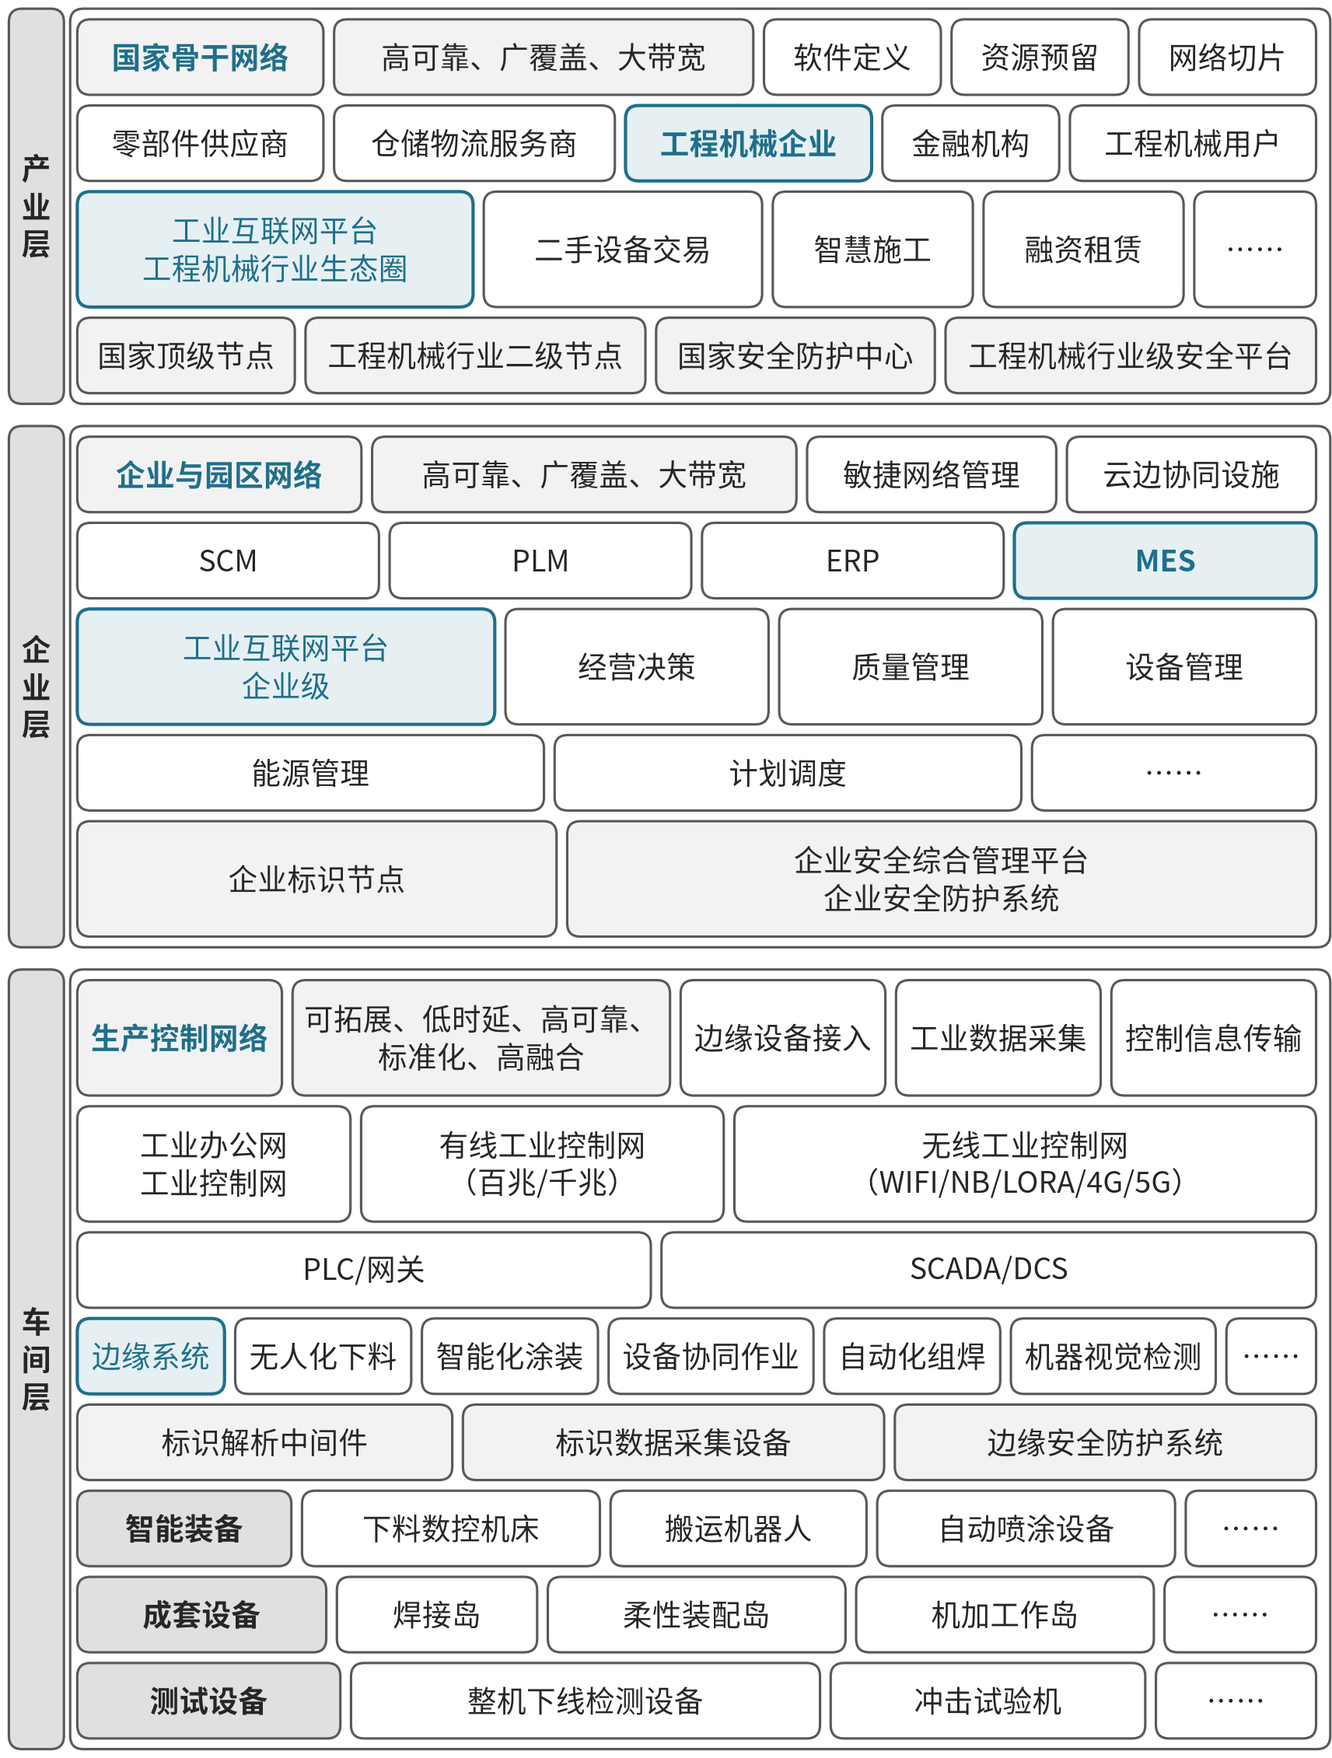
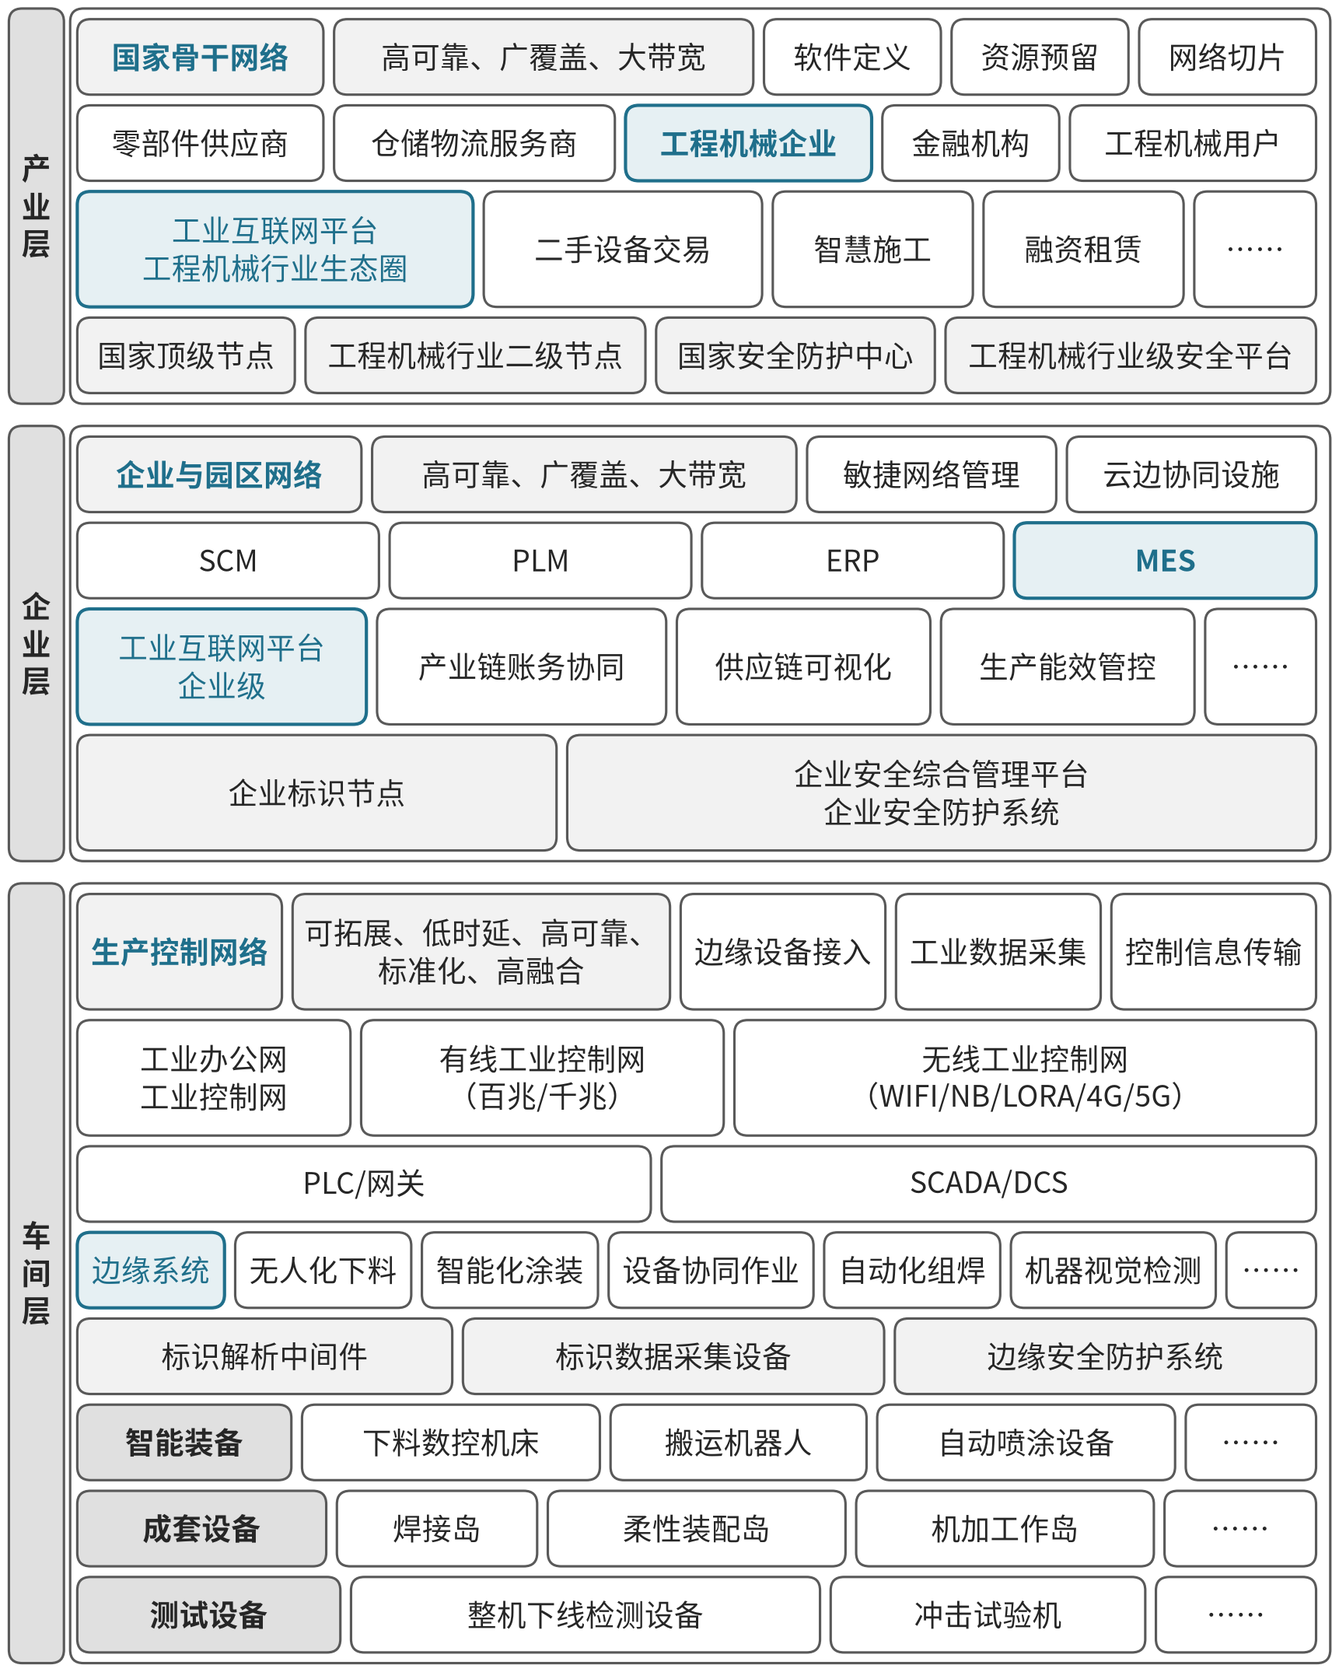
fig(miit9-pr1): 三层条目全部按图参数化，修正图12-1企业层；联盟出处补（2019年）；刷新校验和与对比图

Changed region(s): [[0.0, 0.0, 1.0, 0.9972]]

diff --git a/scripts/figures/specs.py b/scripts/figures/specs.py
@@ -279,54 +279,93 @@ def _():
 
 # ---------------- C01/C04/C05 工信部指南“融合创新实施架构”重绘（同一模板 net3，逐字转录，版式本书重排） ----------------
 MIIT = '资料来源：本书绘制，据工业和信息化部《{doc}》图{no}（PDF第{page}页）整理{alliance}。'
-ALLIANCE = '；原图引自工业互联网产业联盟《工业互联网体系架构（版本2.0）》'
+ALLIANCE = '；原图引自工业互联网产业联盟《工业互联网体系架构（版本2.0）》（2019年）'
 
-def miit_arch(ind, ent, key, plat1, eco, edge, dev):
-    """三层（产业层/企业层/车间层）融合创新实施架构；术语照原图逐字转录，设备图标改为文字框。"""
+def miit_arch(p):
+    """三层（产业层/企业层/车间层）融合创新实施架构。模板只管版式，不含任何图内文字：
+    每张图的全部文字都在各自的参数字典里，照该图原页逐字转录；设备图标改为文字框。"""
     w = 'white'; g = 'grey'
+    def items(xs): return [(x, w) for x in xs]
+    def net(n): return [(n['name'], 'net'), (n['feats'], g)] + items(n['caps'])
+    I, E, S = p['产业层'], p['企业层'], p['车间层']
+    k = len(E['apps']) if len(E['apps']) <= 4 else 3   # 企业级平台应用：至多 4 项排一行，否则 3 项一行
     return net3([
-        ('产业层', [[('国家骨干网络', 'net'), ('高可靠、广覆盖、大带宽', g), ('软件定义', w), ('资源预留', w), ('网络切片', w)],
-                   [(e, 'key' if e == key else w) for e in ent],
-                   [('工业互联网平台\n' + eco, 'plat')] + [(a, w) for a in plat1],
-                   [('国家顶级节点', g), (ind + '行业二级节点', g), ('国家安全防护中心', g), (ind + '行业级安全平台', g)]]),
-        ('企业层', [[('企业与园区网络', 'net'), ('高可靠、广覆盖、大带宽', g), ('敏捷网络管理', w), ('云边协同设施', w)],
-                   [('SCM', w), ('PLM', w), ('ERP', w), ('MES', 'key')],
-                   [('工业互联网平台\n企业级', 'plat'), ('经营决策', w), ('质量管理', w), ('设备管理', w)],
-                   [('能源管理', w), ('计划调度', w), ('……', w)],
-                   [('企业标识节点', g), ('企业安全综合管理平台\n企业安全防护系统', g)]]),
-        ('车间层', [[('生产控制网络', 'net'), ('可拓展、低时延、高可靠、\n标准化、高融合', g), ('边缘设备接入', w), ('工业数据采集', w), ('控制信息传输', w)],
-                   [('工业办公网\n工业控制网', w), ('有线工业控制网\n（百兆/千兆）', w), ('无线工业控制网\n（WIFI/NB/LORA/4G/5G）', w)],
-                   [('PLC/网关', w), ('SCADA/DCS', w)],
-                   [('边缘系统', 'plat')] + [(a, w) for a in edge],
-                   [('标识解析中间件', g), ('标识数据采集设备', g), ('边缘安全防护系统', g)]]
-                  + [[(t, 'head')] + [(i, w) for i in items + ['……']] for t, items in dev])])
-
-STEEL_EDGE = ['智能过程控制', '工业机器人辅助生产', '工况智能识别诊断', '……']
+        ('产业层', [net(I['net']),
+                   [(e, 'key' if e == I['key'] else w) for e in I['entities']],
+                   [(I['plat'], 'plat')] + items(I['apps']),
+                   [(x, g) for x in I['ident'] + I['sec']]]),
+        ('企业层', [net(E['net']),
+                   [(x, 'key' if x == E['key'] else w) for x in E['systems']],
+                   [(E['plat'], 'plat')] + items(E['apps'][:k])]
+                  + ([items(E['apps'][k:])] if E['apps'][k:] else [])
+                  + [[(x, g) for x in E['ident'] + E['sec']]]),
+        ('车间层', [net(S['net']), items(S['nets']), items(S['ctrl']),
+                   [(S['plat'], 'plat')] + items(S['apps']),
+                   [(x, g) for x in S['ident'] + S['sec']]]
+                  + [[(t, 'head')] + items(xs) for t, xs in S['devices']])])
 
 @fig('T-C01-1', MID, 'C01-工程机械.md', None, '工程机械行业工业互联网融合创新实施架构', 'C01-1-工程机械融合创新实施架构',
      MIIT.format(doc='工业互联网与工程机械行业融合应用参考指南（2023年）', no='3-2', page=57, alliance=ALLIANCE))
-def _():
-    return miit_arch('工程机械', ['零部件供应商', '仓储物流服务商', '工程机械企业', '金融机构', '工程机械用户'], '工程机械企业',
-                     ['二手设备交易', '智慧施工', '融资租赁', '……'], '工程机械行业生态圈',
-                     ['无人化下料', '智能化涂装', '设备协同作业', '自动化组焊', '机器视觉检测', '……'],
-                     [('智能装备', ['下料数控机床', '搬运机器人', '自动喷涂设备']), ('成套设备', ['焊接岛', '柔性装配岛', '机加工作岛']),
-                      ('测试设备', ['整机下线检测设备', '冲击试验机'])])
+def _():  # 逐字转录自 B02 PDF第57页图3-2
+    return miit_arch({
+        '产业层': dict(net=dict(name='国家骨干网络', feats='高可靠、广覆盖、大带宽', caps=['软件定义', '资源预留', '网络切片']),
+                    entities=['零部件供应商', '仓储物流服务商', '工程机械企业', '金融机构', '工程机械用户'], key='工程机械企业',
+                    plat='工业互联网平台\n工程机械行业生态圈', apps=['二手设备交易', '智慧施工', '融资租赁', '……'],
+                    ident=['国家顶级节点', '工程机械行业二级节点'], sec=['国家安全防护中心', '工程机械行业级安全平台']),
+        '企业层': dict(net=dict(name='企业与园区网络', feats='高可靠、广覆盖、大带宽', caps=['敏捷网络管理', '云边协同设施']),
+                    systems=['SCM', 'PLM', 'ERP', 'MES'], key='MES',
+                    plat='工业互联网平台\n企业级', apps=['产业链账务协同', '供应链可视化', '生产能效管控', '……'],
+                    ident=['企业标识节点'], sec=['企业安全综合管理平台\n企业安全防护系统']),
+        '车间层': dict(net=dict(name='生产控制网络', feats='可拓展、低时延、高可靠、\n标准化、高融合', caps=['边缘设备接入', '工业数据采集', '控制信息传输']),
+                    nets=['工业办公网\n工业控制网', '有线工业控制网\n（百兆/千兆）', '无线工业控制网\n（WIFI/NB/LORA/4G/5G）'],
+                    ctrl=['PLC/网关', 'SCADA/DCS'],
+                    plat='边缘系统', apps=['无人化下料', '智能化涂装', '设备协同作业', '自动化组焊', '机器视觉检测', '……'],
+                    ident=['标识解析中间件', '标识数据采集设备'], sec=['边缘安全防护系统'],
+                    devices=[('智能装备', ['下料数控机床', '搬运机器人', '自动喷涂设备', '……']),
+                             ('成套设备', ['焊接岛', '柔性装配岛', '机加工作岛', '……']),
+                             ('测试设备', ['整机下线检测设备', '冲击试验机', '……'])])})
 
 @fig('T-C04-1', MID, 'C04-船舶.md', None, '融合创新实施架构', 'C04-1-船舶融合创新实施架构',
      MIIT.format(doc='工业互联网与船舶行业融合应用参考指南（2025年）', no='4-2', page=44, alliance=''))
-def _():
-    return miit_arch('船舶', ['原材料供应商', '仓储物流服务商', '船舶企业', '金融机构', '船东'], '船舶企业',
-                     ['产业链协同', '供应链协同', '融资租赁', '……'], '行业级', STEEL_EDGE,
-                     [('智能装备', ['焊接机器人', '搬运机器人', '智能涂装装备']), ('成套设备', ['自动定向控制仪', '起重机', '钢板切割机']),
-                      ('仪器仪表', ['温度控制器', '材料探伤仪', '泄漏探测器'])])
+def _():  # 逐字转录自 B05 PDF第44页图4-2；设备一行原图分辨率低，按图像辨认
+    return miit_arch({
+        '产业层': dict(net=dict(name='国家骨干网络', feats='高可靠、广覆盖、大带宽', caps=['软件定义', '资源预留', '网络切片']),
+                    entities=['原材料供应商', '仓储物流服务商', '船舶企业', '金融机构', '船东'], key='船舶企业',
+                    plat='工业互联网平台\n行业级', apps=['产业链协同', '供应链协同', '融资租赁', '……'],
+                    ident=['国家顶级节点', '船舶行业二级节点'], sec=['国家安全防护中心', '船舶行业级安全平台']),
+        '企业层': dict(net=dict(name='企业与园区网络', feats='高可靠、广覆盖、大带宽', caps=['敏捷网络管理', '云边协同设施']),
+                    systems=['SCM', 'PLM', 'ERP', 'MES'], key='MES',
+                    plat='工业互联网平台\n企业级', apps=['经营决策', '质量管理', '设备管理', '能源管理', '计划调度', '……'],
+                    ident=['企业标识节点'], sec=['企业安全综合管理平台\n企业安全防护系统']),
+        '车间层': dict(net=dict(name='生产控制网络', feats='可拓展、低时延、高可靠、\n标准化、高融合', caps=['边缘设备接入', '工业数据采集', '控制信息传输']),
+                    nets=['工业办公网\n工业控制网', '有线工业控制网\n（百兆/千兆）', '无线工业控制网\n（WIFI/NB/LORA/4G/5G）'],
+                    ctrl=['PLC/网关', 'SCADA/DCS'],
+                    plat='边缘系统', apps=['智能过程控制', '工业机器人辅助生产', '工况智能识别诊断', '……'],
+                    ident=['标识解析中间件', '标识数据采集设备'], sec=['边缘安全防护系统'],
+                    devices=[('智能装备', ['焊接机器人', '搬运机器人', '智能涂装装备', '……']),
+                             ('成套设备', ['自动定向控制仪', '起重机', '钢板切割机', '……']),
+                             ('仪器仪表', ['温度控制器', '材料探伤仪', '泄漏探测器', '……'])])})
 
 @fig('T-C05-1', MID, 'C05-钢铁.md', None, '钢铁行业工业互联网融合创新实施架构', 'C05-1-钢铁融合创新实施架构',
      MIIT.format(doc='工业互联网与钢铁行业融合应用参考指南（2021年）', no='3-2', page=43, alliance=''))
-def _():
-    return miit_arch('钢铁', ['原燃料供应商', '仓储物流服务商', '钢铁企业', '金融机构', '用钢企业'], '钢铁企业',
-                     ['产业链协同', '供应链协同', '供应链金融', '……'], '钢铁行业生态圈', STEEL_EDGE,
-                     [('智能装备', ['巡检机器人', '机械手', '无人天车']), ('成套设备', ['高炉', '转炉', '轧机']),
-                      ('仪器仪表', ['压力传感器', '气体分析仪', '温度传感器'])])
+def _():  # 逐字转录自 B01 PDF第43页图3-2
+    return miit_arch({
+        '产业层': dict(net=dict(name='国家骨干网络', feats='高可靠、广覆盖、大带宽', caps=['软件定义', '资源预留', '网络切片']),
+                    entities=['原燃料供应商', '仓储物流服务商', '钢铁企业', '金融机构', '用钢企业'], key='钢铁企业',
+                    plat='工业互联网平台\n钢铁行业生态圈', apps=['产业链协同', '供应链协同', '供应链金融', '……'],
+                    ident=['国家顶级节点', '钢铁行业二级节点'], sec=['国家安全防护中心', '钢铁行业级安全平台']),
+        '企业层': dict(net=dict(name='企业与园区网络', feats='高可靠、广覆盖、大带宽', caps=['敏捷网络管理', '云边协同设施']),
+                    systems=['SCM', 'PLM', 'ERP', 'MES'], key='MES',
+                    plat='工业互联网平台\n企业级', apps=['经营决策', '质量管理', '设备管理', '能源管理', '计划调度', '……'],
+                    ident=['企业标识节点'], sec=['企业安全综合管理平台\n企业安全防护系统']),
+        '车间层': dict(net=dict(name='生产控制网络', feats='可拓展、低时延、高可靠、\n标准化、高融合', caps=['边缘设备接入', '工业数据采集', '控制信息传输']),
+                    nets=['工业办公网\n工业控制网', '有线工业控制网\n（百兆/千兆）', '无线工业控制网\n（WIFI/NB/LORA/4G/5G）'],
+                    ctrl=['PLC/网关', 'SCADA/DCS'],
+                    plat='边缘系统', apps=['智能过程控制', '工业机器人辅助生产', '工况智能识别诊断', '……'],
+                    ident=['标识解析中间件', '标识数据采集设备'], sec=['边缘安全防护系统'],
+                    devices=[('智能装备', ['巡检机器人', '机械手', '无人天车', '……']),
+                             ('成套设备', ['高炉', '转炉', '轧机', '……']),
+                             ('仪器仪表', ['压力传感器', '气体分析仪', '温度传感器', '……'])])})
 
 # ---------------- 下册导言 ----------------
 LOWER_COUNTS = [('制造业', 25), ('批发和零售业', 12), ('信息传输、软件和信息技术服务业', 8), ('租赁和商务服务业', 8),

diff --git a/中册-行业解决方案/附录B-中册图源索引表.md b/中册-行业解决方案/附录B-中册图源索引表.md
@@ -7,7 +7,7 @@
 | 图 10-1 | 智慧农业三层框架示意 | 据中国信息通信研究院政策与经济研究所、中国人民大学智慧农业与数字乡村发展研究中心《中国智慧农业发展研究报告——新一代信息技术助力乡村振兴》（2021年）图1（PDF第9页）改绘 | 重绘（原图C09-智慧农业-9.png已移除，改用redraw-智慧农业三层框架示意.png） | [原文](https://www.caict.ac.cn/kxyj/qwfb/ztbg/202201/P020220104495485440718.pdf#page=9) | 本书绘制，随本书CC BY-NC-SA 4.0许可；原图权利归原发布者 | A01-农业（A03-畜牧业正文引用此图） |
 | 图 10-2 | 数字乡村建设框架示意 | 据中国信息通信研究院《数字乡村发展实践白皮书（2024年）》图1（PDF第11页）改绘 | 重绘（原图C10-数字乡村-11.png已移除，改用redraw-数字乡村框架示意.png） | [原文](https://www.caict.ac.cn/kxyj/qwfb/bps/202406/P020240604545842789562.pdf#page=11) | 本书绘制，随本书CC BY-NC-SA 4.0许可；原图权利归原发布者 | A01-农业 |
 | — | 智慧林业总体架构图 | 国家林业局《中国智慧林业发展指导意见》PDF第23页 | 删除 | [原文](https://www.forestry.gov.cn/uploadfile/main/2013-8/file/2013-8-23-5eb225df08f4464089502e8e116b7899.pdf#page=23) | 已删除，不再使用 | A02-林业 |
-| 图 12-1 | 工程机械行业工业互联网融合创新实施架构 | 本书绘制，据工业和信息化部《工业互联网与工程机械行业融合应用参考指南（2023年）》图3-2（PDF第57页）整理；原图引自工业互联网产业联盟《工业互联网体系架构（版本2.0）》。 | 重绘（原图B02-工程机械-57.png已移除，改用fig-C01-1-工程机械融合创新实施架构.png） | [原文](https://www.gov.cn/zhengce/zhengceku/202311/P020231118422003936163.pdf#page=57) | 本书绘制，随本书CC BY-NC-SA 4.0许可；原图权利归原发布者 | C01-工程机械 |
+| 图 12-1 | 工程机械行业工业互联网融合创新实施架构 | 本书绘制，据工业和信息化部《工业互联网与工程机械行业融合应用参考指南（2023年）》图3-2（PDF第57页）整理；原图引自工业互联网产业联盟《工业互联网体系架构（版本2.0）》（2019年）。 | 重绘（原图B02-工程机械-57.png已移除，改用fig-C01-1-工程机械融合创新实施架构.png） | [原文](https://www.gov.cn/zhengce/zhengceku/202311/P020231118422003936163.pdf#page=57) | 本书绘制，随本书CC BY-NC-SA 4.0许可；原图权利归原发布者 | C01-工程机械 |
 | — | 工程机械行业数字化转型场景图谱第一部分 | 工业和信息化部《场景化、图谱化推进重点行业数字化转型的参考指引（2025版）》PDF第22页 | 删除（原图A11-工程机械-22.png已移除，正文改为主场景精简表） | [原文](https://www.miit.gov.cn/cms_files/filemanager/1226211233/attach/20259/60b964bacb4e4c6886ad27349060bb36.pdf#page=22) | 已删除，不再使用 | C01-工程机械 |
 | — | 工程机械行业数字化转型场景图谱第二部分 | 工业和信息化部《场景化、图谱化推进重点行业数字化转型的参考指引（2025版）》PDF第23页 | 删除（原图A11-工程机械-23.png已移除，正文改为主场景精简表） | [原文](https://www.miit.gov.cn/cms_files/filemanager/1226211233/attach/20259/60b964bacb4e4c6886ad27349060bb36.pdf#page=23) | 已删除，不再使用 | C01-工程机械 |
 | — | 新能源汽车场景图谱第一部分 | 工业和信息化部《场景化、图谱化推进重点行业数字化转型的参考指引（2025版）》PDF第25页 | 删除（原图A11-新能源汽车-25.png已移除，正文改为主场景精简表） | [原文](https://www.miit.gov.cn/cms_files/filemanager/1226211233/attach/20259/60b964bacb4e4c6886ad27349060bb36.pdf#page=25) | 已删除，不再使用 | C02-汽车与零部件 |

diff --git a/中册-行业解决方案/C01-工程机械.md b/中册-行业解决方案/C01-工程机械.md
@@ -24,7 +24,7 @@
 
 ![工程机械行业工业互联网融合创新实施架构](assets/fig-C01-1-工程机械融合创新实施架构.png)
 
-工程机械行业工业互联网融合创新实施架构。资料来源：本书绘制，据工业和信息化部《工业互联网与工程机械行业融合应用参考指南（2023年）》图3-2（PDF第57页）整理；原图引自工业互联网产业联盟《工业互联网体系架构（版本2.0）》。
+工程机械行业工业互联网融合创新实施架构。资料来源：本书绘制，据工业和信息化部《工业互联网与工程机械行业融合应用参考指南（2023年）》图3-2（PDF第57页）整理；原图引自工业互联网产业联盟《工业互联网体系架构（版本2.0）》（2019年）。
 
 **车间层**连接数控机床、焊接与装配单元、喷涂设备、搬运设备和下线检测设备。现场控制网络、可编程逻辑控制器（PLC）、采集网关、数据采集与监控系统（SCADA）等承担设备连接、状态采集与控制信息传输；边缘系统进行协议转换、数据预处理及需要较快响应的分析。建设成果既包括能够工作的设备和控制程序，也包括可解释的采集点、时间记录、设备身份及状态。由此，生产人员才能知道工序是否开始、设备是否可用、质量是否合格，而非只看到网络已经连通。
 
